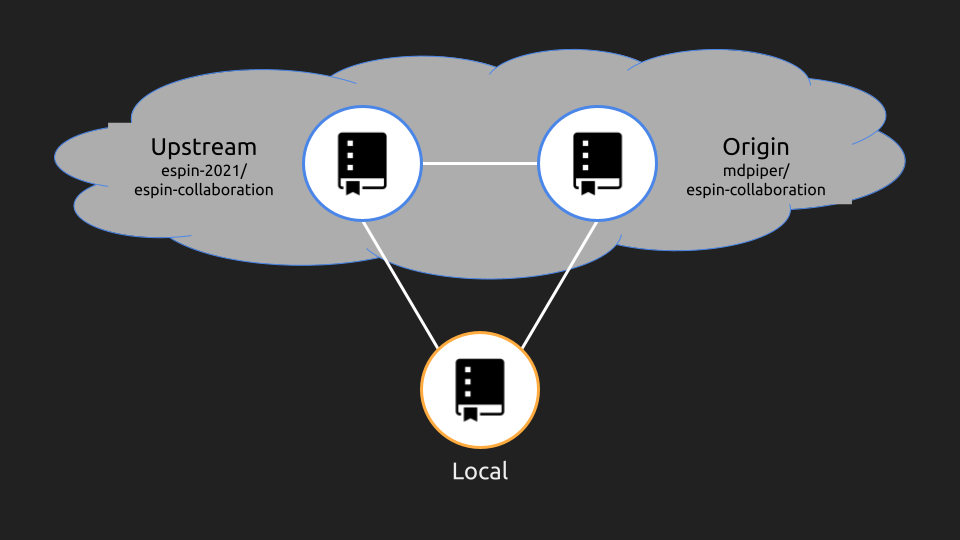
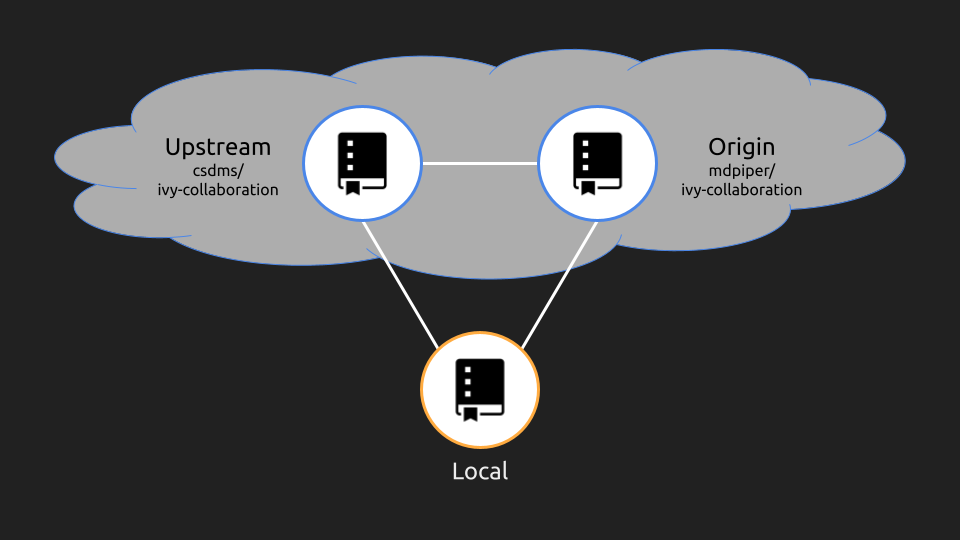
Add section on GitHub authentication (#68)
* add new section on SSH keys

* Include SSH key references

* Update section links on page footer

* Match the GitHub documentation headings

* Windows app is now Git Bash

* Update git remotes diagram

* Text edits + add section link

* Text edits, update remotes to use SSH

diff --git a/lessons/git/git-workflow.md b/lessons/git/git-workflow.md
@@ -3,13 +3,12 @@
 # A version control workflow
 
 In this section,
-we'll work through an example that broadly demonstrates
+we'll work through a long-ish example that demonstrates
 how to use version control on an individual or a group project.
-Imagine, for example,
+Imagine, for instance,
 backing up and tracking your thesis,
-or collaborating on a journal article
+or collaborating on writing a journal article
 with a colleague.
-<!-- This is where GitHub is powerful. -->
 
 We'll broadly follow the series of actions in this workflow:
 
@@ -66,13 +65,15 @@ On your computer, open a terminal and change to your **Desktop** directory:
 ```
 $ cd ~/Desktop
 ```
+Note that this is a convenience; you can do the following steps anywhere on the filesystem.
 
 Now clone your repository from GitHub.
 The syntax for the `git clone` subcommand is
 ```
 $ git clone [repository-url]
 ```
-where the bracketed text should be replaced with the URL of your new repository.
+where the bracketed text should be replaced with the SSH URL of your new repository.
+You'll be prompted to enter the password for your SSH key.
 
 The repository is cloned into the directory **ivy-collaboration**.
 Change to it and view its contents:
@@ -165,13 +166,13 @@ In this example, however, it'll be trivial.
 
 Recall that the **ivy-collaboration** repository
 has a file, **CONTRIBUTORS.md**.
-View the contents of the repository:
+View the files in the repository:
 ```
 $ ls
 CONTRIBUTORS.md LICENSE   README.md
 ```
 With your favorite text editor,
-open the file **CONTRIBUTORS.md**
+open **CONTRIBUTORS.md**
 add your name to the list of contributors,
 along with something interesting
 (but not too interesting--this is a public repository).
@@ -316,6 +317,7 @@ remote:
 To https://github.com/mdpiper/ivy-collaboration
  * [new branch]      mdpiper/update-contributors -> mdpiper/update-contributors
 ```
+You'll again be prompted to enter the password for your SSH key.
 
 Note that the output from `git push`
 includes a link to create a *pull request* on GitHub.
@@ -375,24 +377,24 @@ We can *sync* these repositories in a few steps.
 First,
 use the `git remote` subcommand to view what remotes are being tracked on your local machine:
 ```
-origin	https://github.com/mdpiper/ivy-collaboration (fetch)
-origin	https://github.com/mdpiper/ivy-collaboration (push)
+origin	git@github.com:mdpiper/ivy-collaboration.git (fetch)
+origin	git@github.com:mdpiper/ivy-collaboration.git (push)
 ```
 
 By default,
 the only remote tracked is *origin*.
 We can track the *upstream* remote, as well, with:
 ```
-$ git remote add upstream https://github.com/csdms/ivy-collaboration
+$ git remote add upstream git@github.com:csdms/ivy-collaboration.git
 ```
 
 Check the result with another call to `git remote`:
 ```
 $ git remote -v
-origin	https://github.com/csdms/ivy-collaboration (fetch)
-origin	https://github.com/csdms/ivy-collaboration (push)
-upstream	https://github.com/csdms/ivy-collaboration (fetch)
-upstream	https://github.com/csdms/ivy-collaboration (push)
+origin	git@github.com:mdpiper/ivy-collaboration.git (fetch)
+origin	git@github.com:mdpiper/ivy-collaboration.git (push)
+upstream	git@github.com:csdms/ivy-collaboration.git (fetch)
+upstream	git@github.com:csdms/ivy-collaboration.git (push)
 ```
 
 Next, switch back to the *main* branch in your local repository.
@@ -470,4 +472,4 @@ This table summarizes the `git` subcommands used in this section:
 ___
 
 [Introduction to version control](./index.md) |
-Previous: [Version control in a single-user project](./git-single-user-project.md)
+Previous: [GitHub authentication](./github-authentication.md)

diff --git a/lessons/git/github-authentication.md b/lessons/git/github-authentication.md
@@ -1,0 +1,120 @@
+![Ivy logo](https://raw.githubusercontent.com/csdms/ivy/main/media/logo.png)
+
+# GitHub authentication
+
+GitHub allows users to connect to remote repositories
+through two protocols, HTTPS and SSH.
+
+When using HTTPS,
+a user must supply a personal access token (PAT)--a long string of characters--on
+every connection attempt.
+
+When using SSH,
+GitHub looks for an SSH key cached locally.
+An SSH key is a little harder to set up than a PAT,
+but easier to use over time.
+
+In this lesson,
+we'll cover how to create an SSH key
+and add it to your GitHub profile.
+
+## Check for an existing SSH key
+
+Before we create a new SSH key,
+let's check if you already have one on your system.
+Open a terminal and type
+```
+$ ls ~/.ssh
+```
+
+GitHub supports three types of keys.
+If you have a **.ssh** directory with one of these files:
+
+* **id_rsa.pub**
+* **id_ecdsa.pub**
+* **id_ed25519.pub**
+
+you can skip ahead to the [Add an SSH key to GitHub](./github-authentication.md#add-an-ssh-key-to-github) section.
+
+If you don't have a **.ssh** directory
+or one of the three supported key types,
+proceed to the next section.
+
+## Create an SSH key
+
+To create a new SSH key,
+type the following into a terminal:
+```
+$ ssh-keygen -t ed25519 -C "[your email address]"
+```
+The `-t` flag specifies the type of key to create;
+in this case,
+using the [ed25519](https://en.wikipedia.org/wiki/EdDSA#Ed25519) algorithm.
+Use the email address associated with your GitHub account.
+Follow the prompts and enter a password.
+
+Check the contents of your **.ssh** directory (which will now exist if it didn't before):
+```
+$ ls ~/.ssh
+id_ed25519      id_ed25519.pub
+```
+You now have an SSH key pair (private, public).
+
+Remember your password!
+You'll have to enter it when connecting to GitHub.
+Optionally,
+you can use the `ssh-agent` service on your computer to store the password;
+GitHub provides [documentation](https://docs.github.com/en/authentication/connecting-to-github-with-ssh/generating-a-new-ssh-key-and-adding-it-to-the-ssh-agent#adding-your-ssh-key-to-the-ssh-agent) for doing so.
+
+## Add an SSH key to GitHub
+
+Now that we have an SSH key pair,
+we need to add the public key to GitHub.
+
+Start by copying the public key.
+Print the key to the terminal with `cat`:
+```
+$ cat ~/.ssh/id_ed25519.pub
+ssh-ed25519 AA4WC3NzqC45ZD81NTR5AQAAIBbFO9USDsVFLRIiBJ9Y6wJil4AFrW5ysRrGNCd5wDvy mark.piper@colorado.edu
+```
+then select the text and copy it.
+
+Next, go to https://github.com/settings/keys.
+(If you aren't signed in to GitHub,
+you'll be prompted to do so.)
+
+In the "SSH keys" section,
+click the *New SSH key* button.
+In the resulting form,
+you can name your key
+and paste in the key text.
+
+That's it!
+
+## Test your SSH key
+
+To check that GitHub has your SSH key, type the following in terminal:
+```
+$ ssh -T git@github.com
+```
+You'll be prompted to enter the password for your key.
+
+If you get a return like
+```
+Hi mdpiper! You've successfully authenticated, but GitHub does not provide shell access.
+```
+you're all set!
+
+## Summary
+
+Github requires either a personal access token (PAT)
+or an SSH key
+to connect to remote repositories.
+Here,
+we describe how to create and add an SSH key to GitHub.
+
+___
+
+[Introduction to version control](./index.md) |
+Previous: [Configuring git](./configuring-git.md)
+Next: [A version control workflow](./git-workflow.md)

diff --git a/lessons/git/index.md b/lessons/git/index.md
@@ -50,6 +50,7 @@ Here are some examples...
 This lesson on version control continues in the following sections.
 
 1. [Configuring git and GitHub](./configuring-git.md)
+1. [GitHub authentication](./github-authentication.md)
 1. [A version control workflow](./git-workflow.md)
 
 
@@ -57,5 +58,10 @@ This lesson on version control continues in the following sections.
 
 * Software Carpentry [lesson](https://swcarpentry.github.io/git-novice/) on version control
 * A [git command cheatsheet](https://education.github.com/git-cheat-sheet-education.pdf) from GitHub
+* [Secure shell (SSH)](https://en.wikipedia.org/wiki/Secure_Shell) description on Wikipedia
+* In the GitHub documentation:
+  * [Creating a personal access token](https://docs.github.com/en/authentication/keeping-your-account-and-data-secure/creating-a-personal-access-token)
+  * [Generating a new SSH key](https://docs.github.com/en/authentication/connecting-to-github-with-ssh/generating-a-new-ssh-key-and-adding-it-to-the-ssh-agent)
+  * [Adding a new SSH key](https://docs.github.com/en/authentication/connecting-to-github-with-ssh/adding-a-new-ssh-key-to-your-github-account)
 * The full [git documentation](https://git-scm.com/docs)
 * The full [GitHub documentation](https://docs.github.com)

diff --git a/lessons/git/configuring-git.md b/lessons/git/configuring-git.md
@@ -6,7 +6,7 @@ When using `git` for the first time on a computer,
 some setup is required.
 Start by opening a terminal
 (your preferred terminal app on Linux or macOS;
-the Git Bash Shell on Windows).
+Git Bash on Windows).
 
 Make sure `git` is installed and in the application search path:
 ```
@@ -93,4 +93,4 @@ ___
 
 [Introduction to version control](./index.md) |
 Previous: [index](./index.md) |
-Next: [A version control workflow](./git-workflow.md)
+Next: [GitHub authentication](./github-authentication.md)
